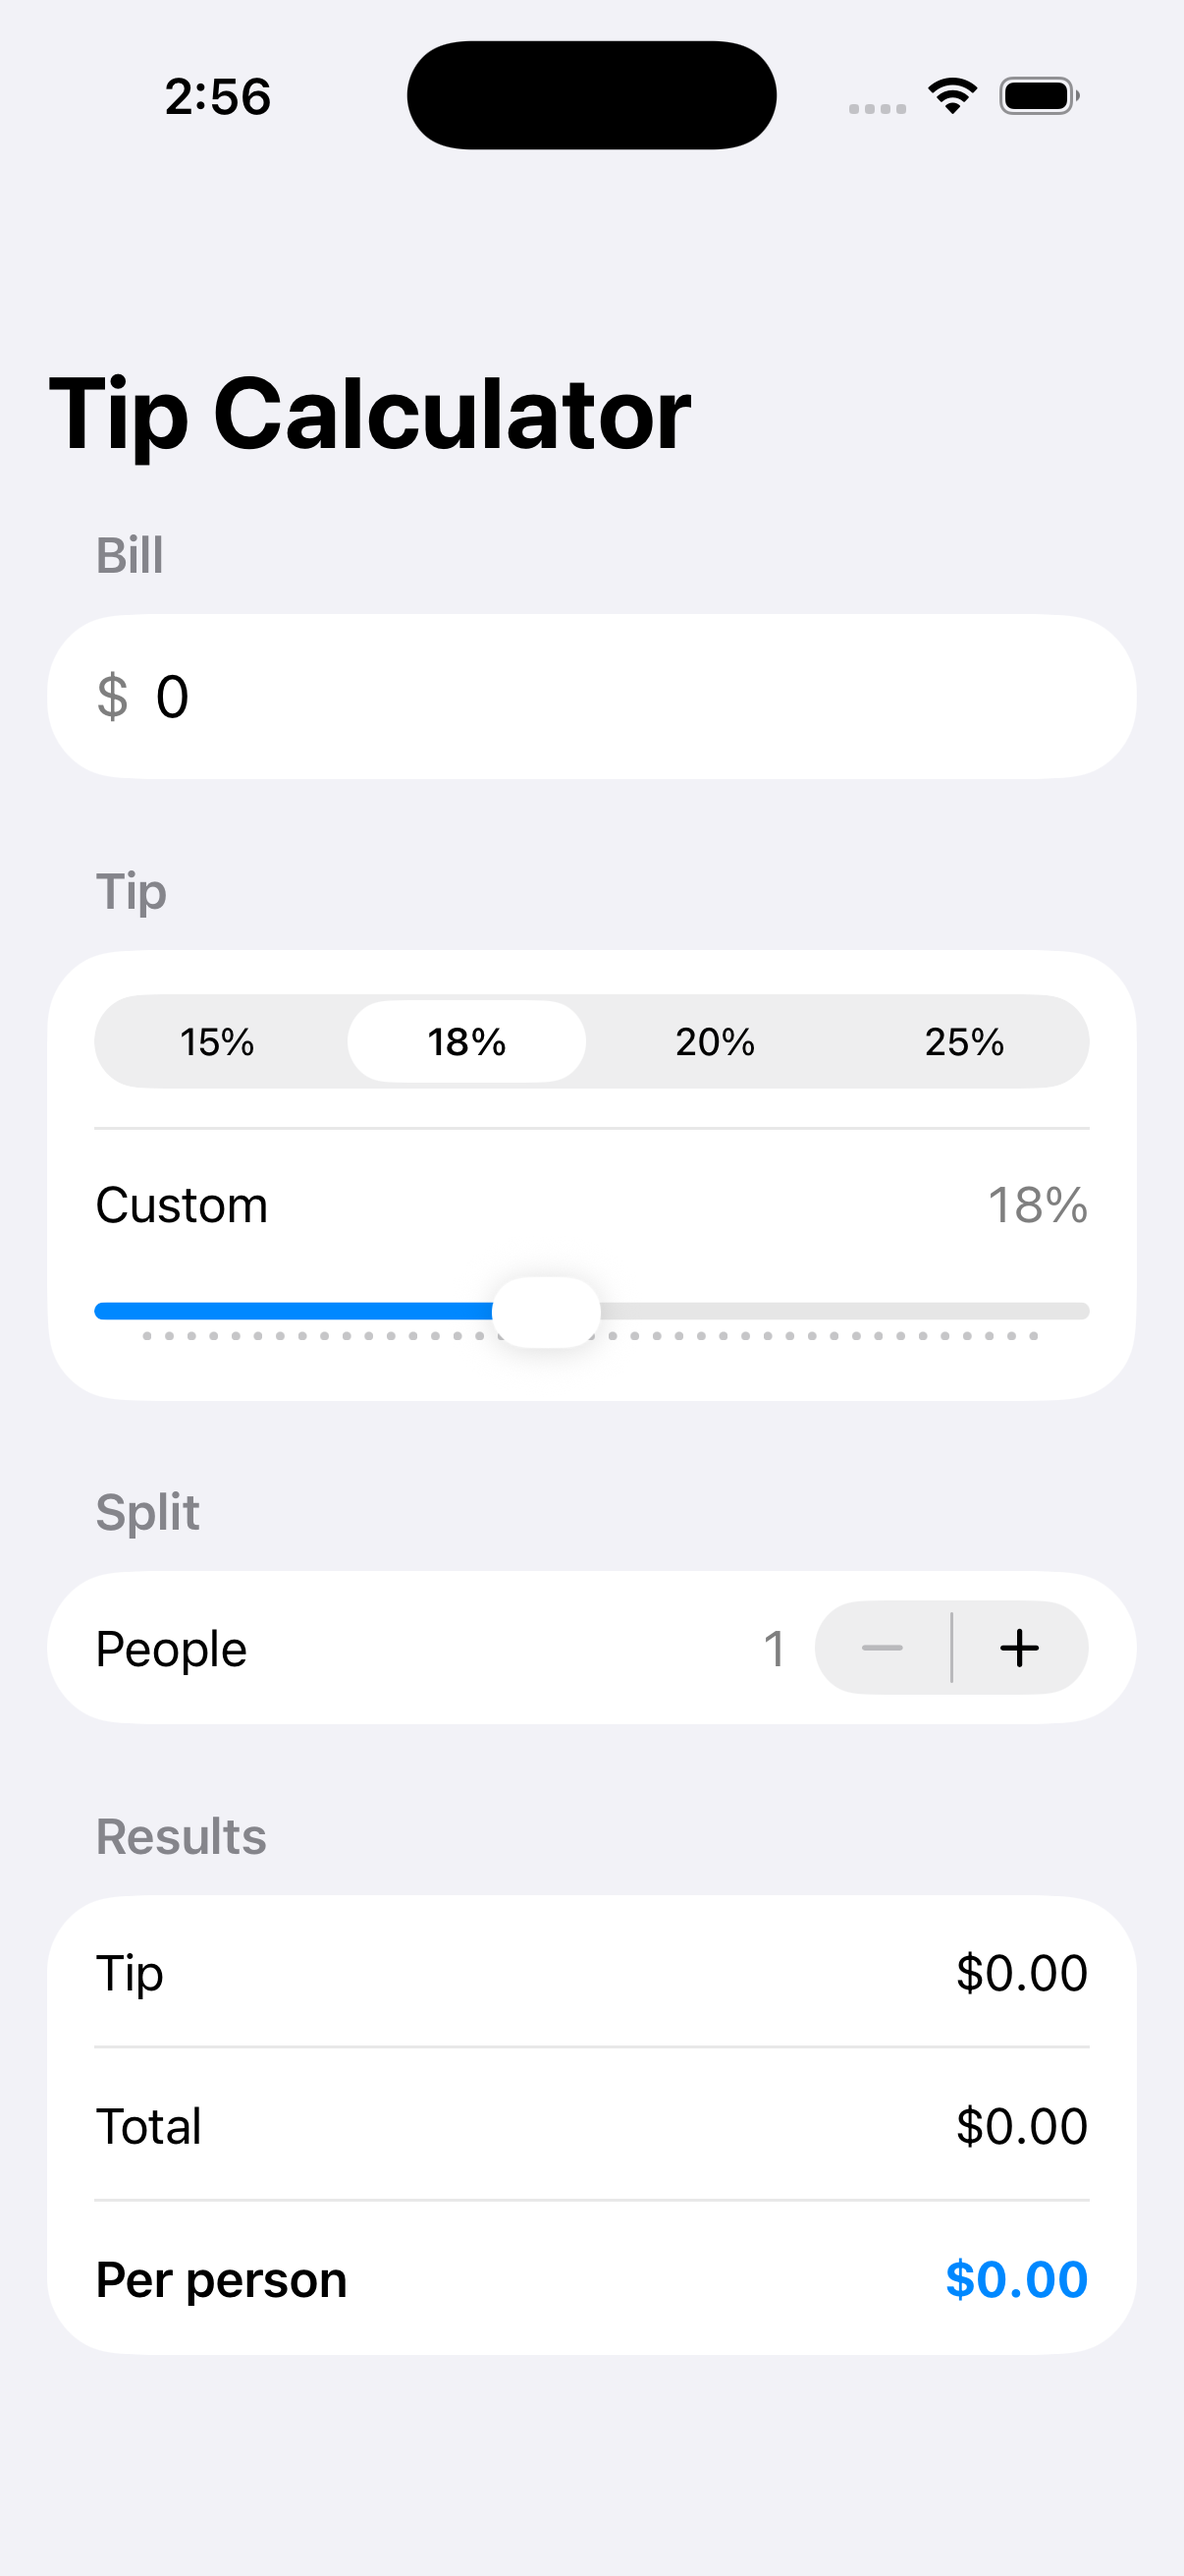
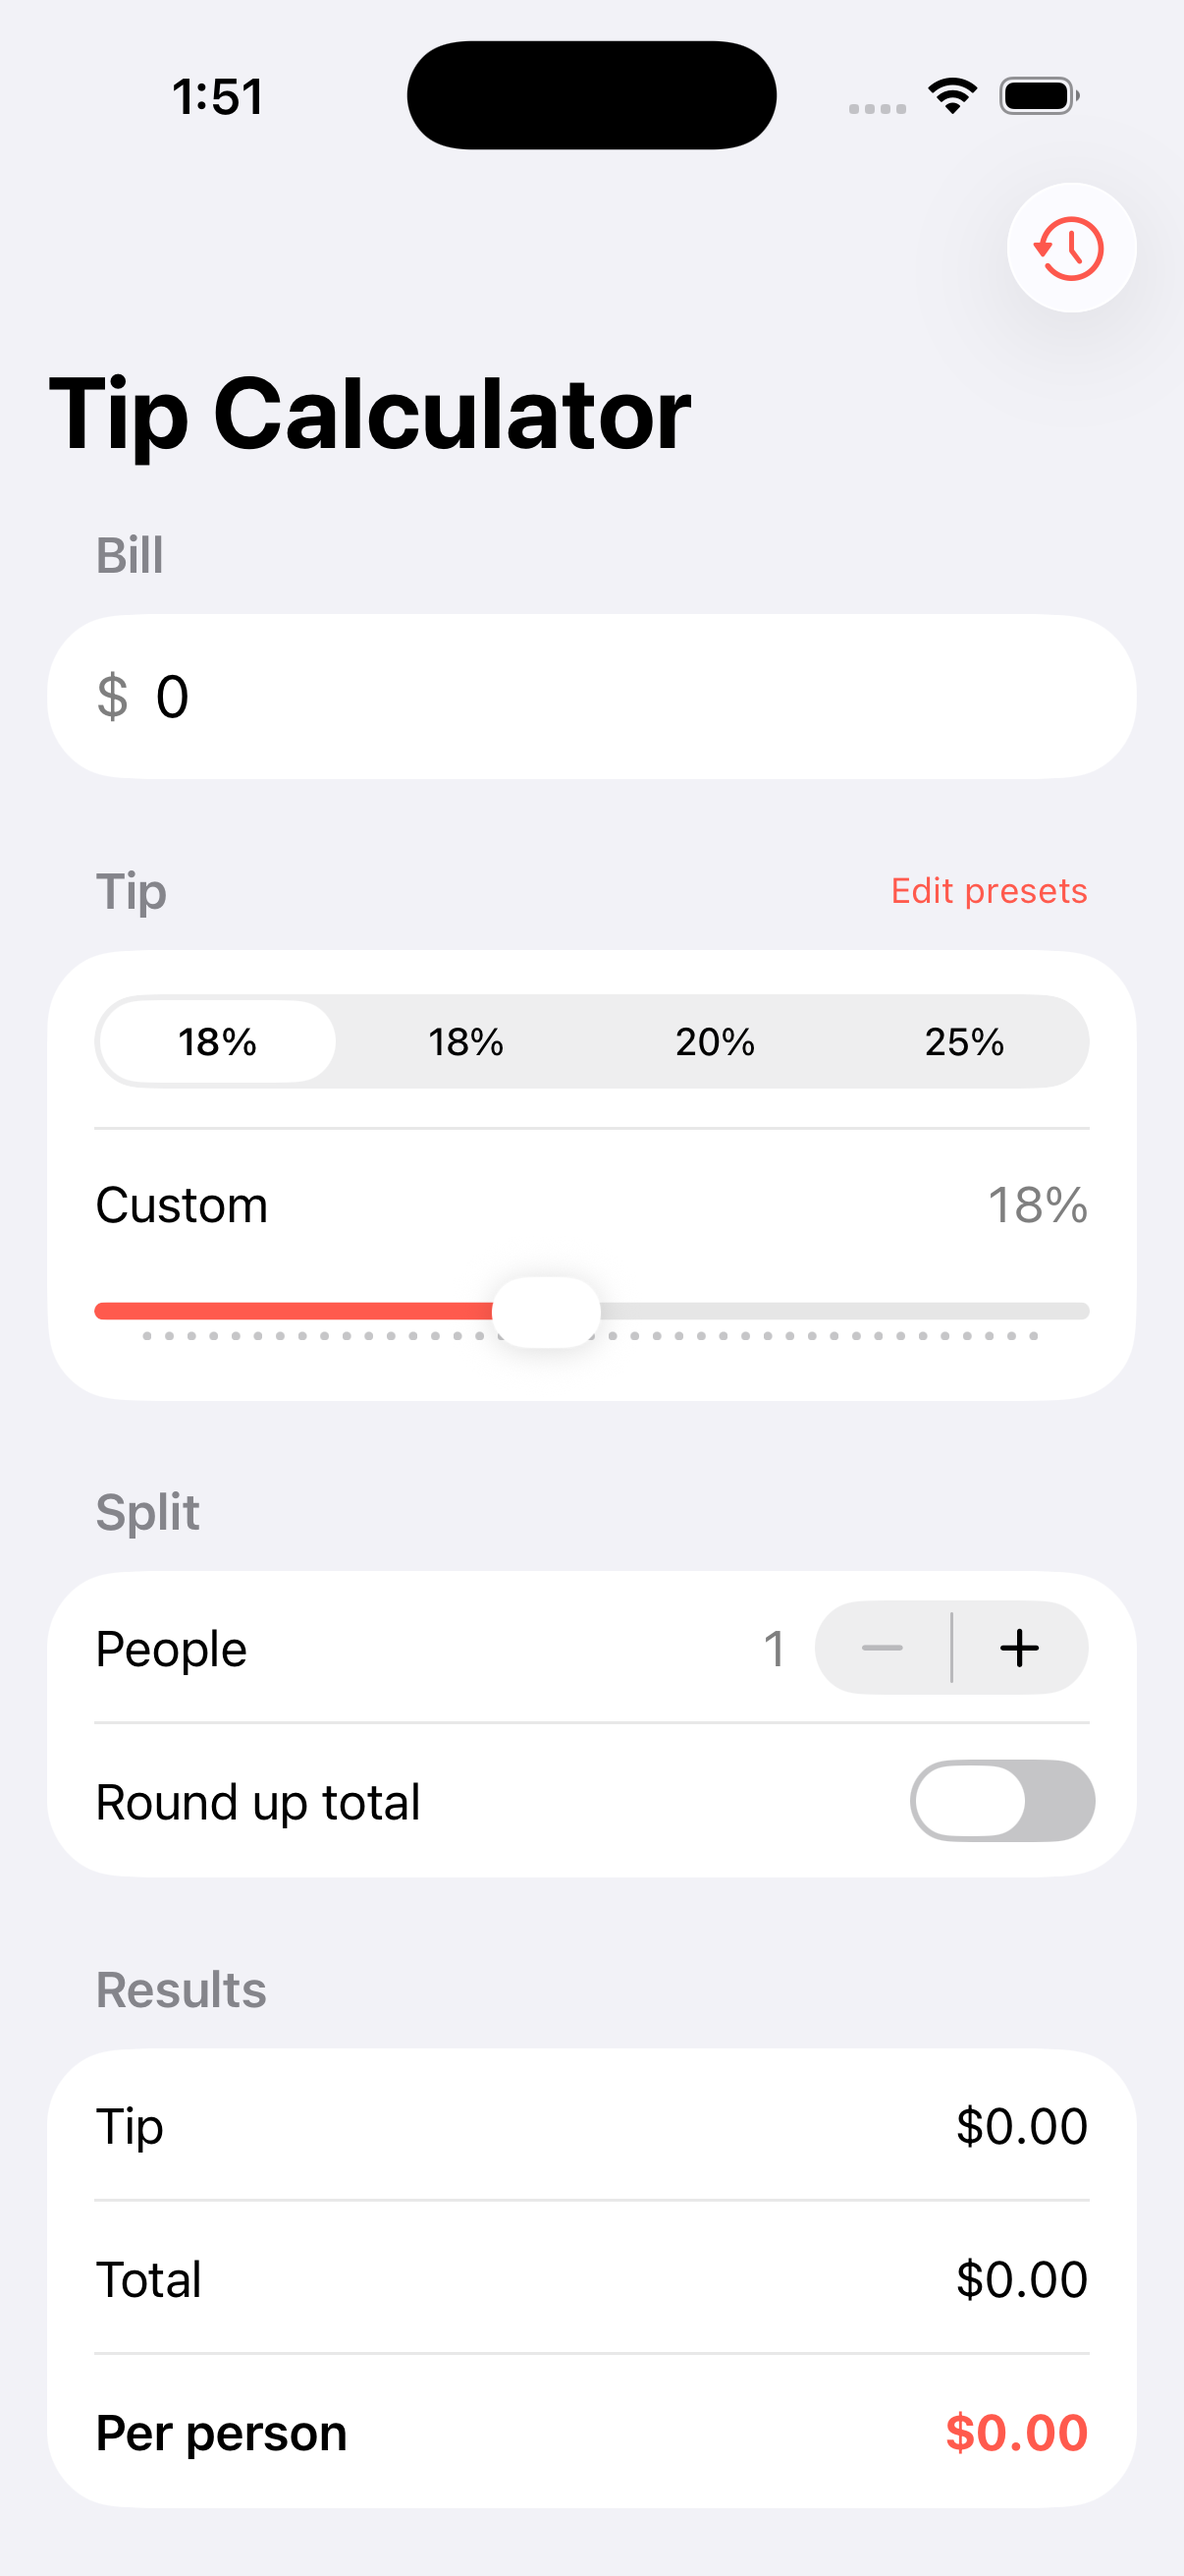
docs: regenerate screenshots for Snappet Pulse theme + add dark mode
Regenerated all 17 README/knowledge-graph screenshots on the iOS 26 sim with the
merged Snappet Pulse design system (light), and added a full 17-image dark-mode set.

- Module/tab shots (01-09) captured via the app's -screenshotModule / --start-tab
  hooks driven by simctl; workout-studio shots (dashboard, routines, routine-detail,
  live-player, history, summary, settings, hr-source-picker) harvested from the
  LiveWorkoutStudioWalkthrough UI-test attachments (seeded demo data), run once in
  light and once with the simulator in dark appearance.
- Knowledge graph: detail panel now shows each screen's Light + Dark screenshot
  side by side (graph.js derives the -dark.png path; styles.css lays them out).
  Light nodes keep their existing shot paths, so all links still resolve.
- README: galleries refreshed; added a collapsible dark-mode gallery.
Graph verified: JS parses, headless Chrome load has no console errors, all 34 images resolve.

diff --git a/docs/knowledge-graph/graph.js b/docs/knowledge-graph/graph.js
@@ -608,7 +608,7 @@
         <h2>${n.label}</h2>
       </div>
       <div class="body">
-        ${n.shot ? `<img class="shot" src="${n.shot}" alt="${n.label} screenshot" loading="lazy">` : ""}
+        ${n.shot ? `<div class="shots"><figure class="shotfig"><img class="shot" src="${n.shot}" alt="${n.label} light screenshot" loading="lazy"><figcaption>Light</figcaption></figure><figure class="shotfig"><img class="shot" src="${n.shot.replace(/\.png$/, "-dark.png")}" alt="${n.label} dark screenshot" loading="lazy"><figcaption>Dark</figcaption></figure></div>` : ""}
         ${n.video ? `<video class="shot-video" controls preload="metadata" playsinline><source src="${n.video}" type="video/mp4">Your browser can't play this video — <a href="${n.video}">open it directly</a>.</video>` : ""}
         <div class="desc">${n.desc}</div>
         <div class="kv"><span class="k">Category</span><span class="v">${cap(n.category)}</span></div>

diff --git a/docs/knowledge-graph/styles.css b/docs/knowledge-graph/styles.css
@@ -200,6 +200,11 @@ html, body {
   box-shadow: var(--shadow); margin-bottom: 16px;
 }
 .detail .shot-video { max-height: 480px; }
+/* Light + dark screenshot pair, shown side by side. */
+.detail .shots { display: flex; gap: 10px; margin-bottom: 16px; }
+.detail .shotfig { flex: 1 1 0; min-width: 0; margin: 0; }
+.detail .shotfig .shot { margin-bottom: 6px; max-height: 360px; }
+.detail .shotfig figcaption { text-align: center; font-size: 11px; color: var(--text-faint); letter-spacing: 0.04em; text-transform: uppercase; }
 .detail .desc { font-size: 13.5px; line-height: 1.55; color: var(--text-dim); margin-bottom: 16px; }
 .detail .kv { display: flex; gap: 8px; font-size: 12.5px; margin-bottom: 9px; }
 .detail .kv .k { color: var(--text-faint); min-width: 64px; flex-shrink: 0; }

diff --git a/README.md b/README.md
@@ -15,7 +15,8 @@ minimal manual editing.
 
 The iOS suite — a Home dashboard aggregating usage across mini-apps, an App Library, and the modules
 themselves (Workout reels · Pomodoro · Habits · Journal · Tip · Split Expenses · Budget). Captured on
-the iOS 26 simulator.
+the iOS 26 simulator, themed with the **Snappet Pulse** design system (#30) — one warm Pulse-coral
+brand accent, curated per-module accents, a shared spacing/radius/type scale, and full dark mode.
 
 | Home dashboard | App Library | Workout (onboarding) |
 |---|---|---|
@@ -44,6 +45,40 @@ and a heart-rate source picker (Apple Watch / BLE band).
 | Workout settings | HR source picker | |
 |---|---|---|
 | ![Workout settings](docs/screenshots/workout-settings.png) | ![HR source picker](docs/screenshots/hr-source-picker.png) | |
+
+### 🌙 Dark mode
+
+Snappet Pulse renders from the same tokens in both appearances — warm near-black surfaces with the
+same coral brand accent and per-module hues. Same screens as above, in dark.
+
+<details>
+<summary>Show dark-mode gallery</summary>
+
+| Home dashboard | App Library | Workout (onboarding) |
+|---|---|---|
+| ![Home (dark)](docs/screenshots/01-home-dark.png) | ![Apps (dark)](docs/screenshots/02-apps-dark.png) | ![Workout (dark)](docs/screenshots/03-workout-dark.png) |
+
+| Pomodoro | Habits | Journal |
+|---|---|---|
+| ![Pomodoro (dark)](docs/screenshots/04-pomodoro-dark.png) | ![Habits (dark)](docs/screenshots/05-habits-dark.png) | ![Journal (dark)](docs/screenshots/06-journal-dark.png) |
+
+| Tip Calculator | Split Expenses | Budget |
+|---|---|---|
+| ![Tip (dark)](docs/screenshots/07-tip-dark.png) | ![Expenses (dark)](docs/screenshots/08-expenses-dark.png) | ![Budget (dark)](docs/screenshots/09-budget-dark.png) |
+
+| Workout dashboard | Routines | Routine detail |
+|---|---|---|
+| ![Workout dashboard (dark)](docs/screenshots/workout-dashboard-dark.png) | ![Routines (dark)](docs/screenshots/workout-routines-dark.png) | ![Routine detail (dark)](docs/screenshots/routine-detail-dark.png) |
+
+| Live player (timer + HR overlay) | History | HR summary (chart + zones) |
+|---|---|---|
+| ![Live player (dark)](docs/screenshots/live-player-dark.png) | ![History (dark)](docs/screenshots/workout-history-dark.png) | ![HR summary (dark)](docs/screenshots/workout-summary-dark.png) |
+
+| Workout settings | HR source picker | |
+|---|---|---|
+| ![Workout settings (dark)](docs/screenshots/workout-settings-dark.png) | ![HR source picker (dark)](docs/screenshots/hr-source-picker-dark.png) | |
+
+</details>
 
 ### ▶ Walkthrough video
 

diff --git a/docs/knowledge-graph/README.md b/docs/knowledge-graph/README.md
@@ -96,6 +96,8 @@ Capture + Video Studio** initiative — the watchOS companion and its bidirectio
 watch face, the pluggable `MetricsSource` layer (Apple Watch / BLE band), the Live Activity (with the
 paused/notification status + the in-app `LiveWorkoutBanner`), and the video studio (session media tagging
 → enriched HR summary → CapCut-style clip editor → engine-driven highlight reel → share / save). Many
-screen/section nodes carry a **screenshot** (`shot`), and the **Live Workout Studio** overview node embeds
+screen/section nodes carry a **screenshot** (`shot`) — the detail panel shows it in **both Light and
+Dark** (the dark variant is the same path with a `-dark` suffix, e.g. `01-home-dark.png`), reflecting
+the Snappet Pulse design system (#30) — and the **Live Workout Studio** overview node embeds
 the **walkthrough video**.
 Android mirrors the same screens 1:1 (nodes are tagged `iOS + Android` where parity exists).
